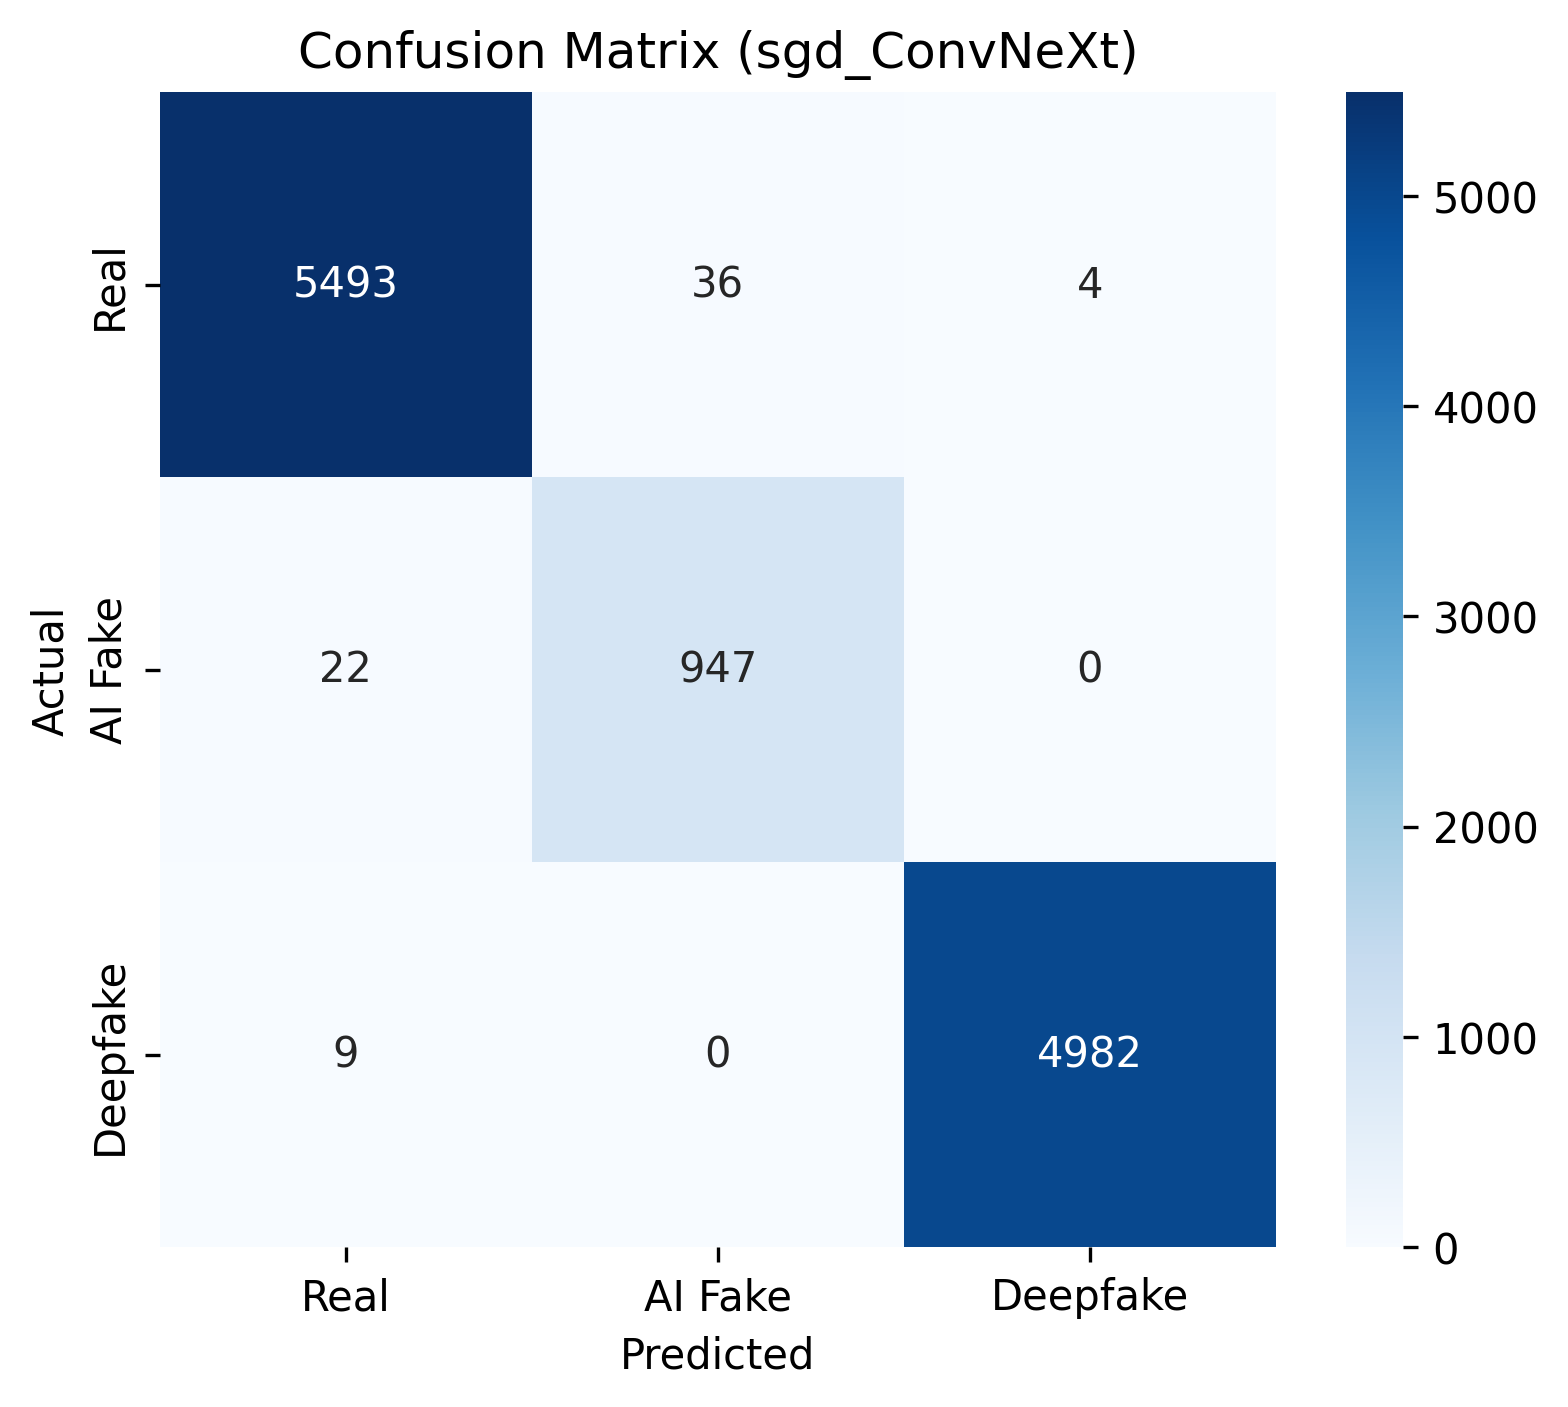
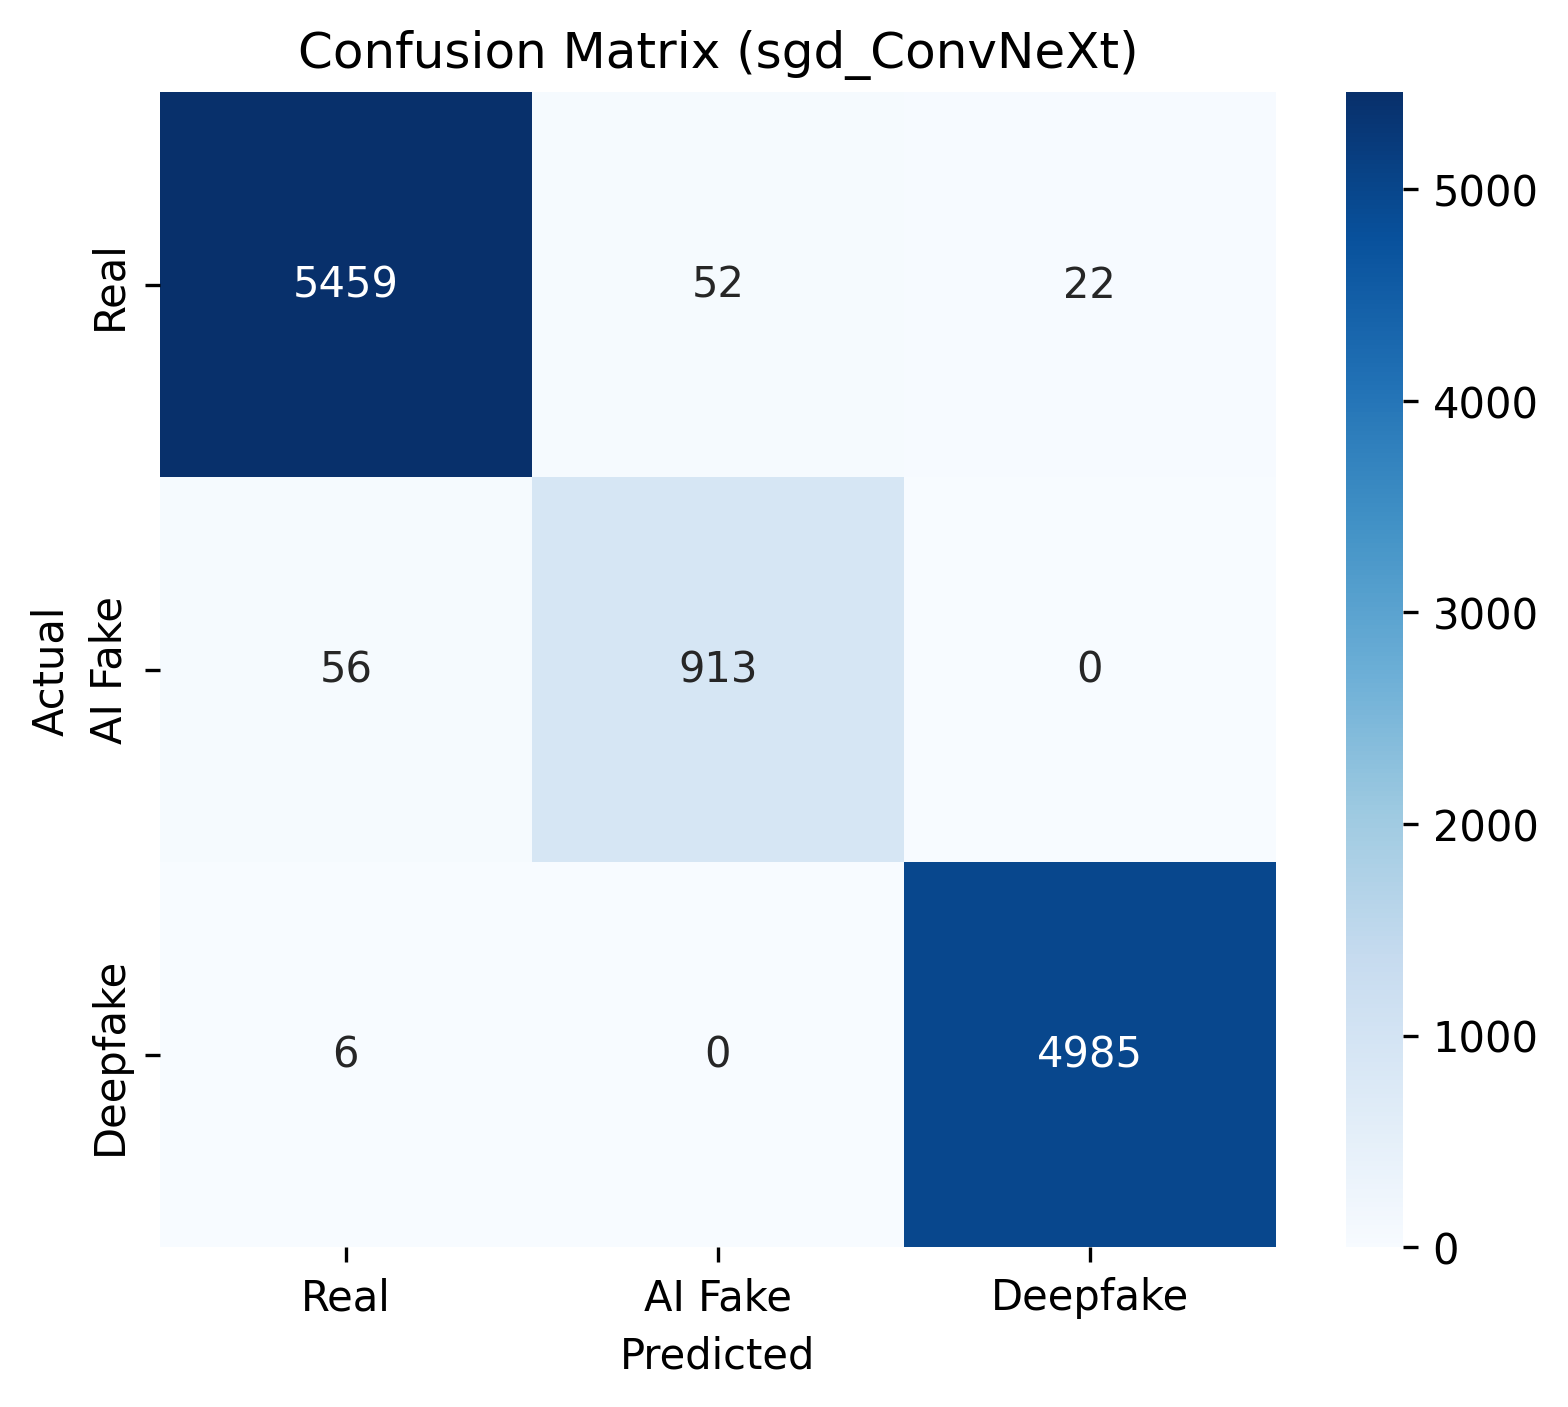
feat: implement anti-shortcut perturbations and robust L2 regularization

diff --git a/utils.py b/utils.py
@@ -1,3 +1,4 @@
+import io
 import torch
 import torch.nn as nn
 from torchvision import models, transforms
@@ -6,14 +7,46 @@ import numpy as np
 from torch.utils.data import Dataset, DataLoader
 import config
 
-def get_transform():
-    """Returns the standard image transformation pipeline."""
-    return transforms.Compose([
-        transforms.Resize((224, 224)),
+class RandomJPEGCompression(object):
+    """
+    Simulates varied JPEG compression artifacts (quality 50-95) to destroy
+    camera/video sensor quantization shortcuts and enforce semantic robustness.
+    """
+    def __init__(self, quality_range=(50, 95), p=0.5):
+        self.quality_range = quality_range
+        self.p = p
+
+    def __call__(self, img):
+        if np.random.rand() > self.p:
+            return img
+        quality = int(np.random.randint(self.quality_range[0], self.quality_range[1]))
+        buffer = io.BytesIO()
+        img.save(buffer, format="JPEG", quality=quality)
+        buffer.seek(0)
+        return Image.open(buffer).convert("RGB")
+
+def get_transform(augment=False):
+    """
+    Returns image transformation pipeline.
+    
+    Args:
+        augment: If True, adds JPEG compression perturbation, horizontal flips,
+                 subtle color jitter, and Gaussian blur to destroy domain/compression bias.
+    """
+    transform_list = [transforms.Resize((224, 224))]
+    if augment:
+        transform_list.extend([
+            RandomJPEGCompression(quality_range=(50, 95), p=0.5),
+            transforms.RandomHorizontalFlip(p=0.5),
+            transforms.ColorJitter(brightness=0.15, contrast=0.15, saturation=0.1),
+            transforms.GaussianBlur(kernel_size=(3, 3), sigma=(0.1, 1.5)),
+        ])
+    transform_list.extend([
         transforms.ToTensor(),
         transforms.Normalize(mean=[0.485, 0.456, 0.406], 
                              std=[0.229, 0.224, 0.225])
     ])
+    return transforms.Compose(transform_list)
 
 def get_model(device=config.DEVICE, keep_layernorm=False):
     """
@@ -35,8 +68,10 @@ def get_model(device=config.DEVICE, keep_layernorm=False):
     cnn.eval()
     return cnn
 
-def extract_embedding(model, image_path, transform, device=config.DEVICE):
+def extract_embedding(model, image_path, transform=None, device=config.DEVICE):
     """Extracts a 1D embedding vector (768,) from a single image path."""
+    if transform is None:
+        transform = get_transform(augment=False)
     try:
         img = Image.open(image_path).convert("RGB")
         x = transform(img).unsqueeze(0).to(device)
@@ -54,7 +89,7 @@ class ImageListDataset(Dataset):
     def __init__(self, file_paths, labels=None, transform=None):
         self.file_paths = file_paths
         self.labels = labels
-        self.transform = transform if transform is not None else get_transform()
+        self.transform = transform if transform is not None else get_transform(augment=False)
 
     def __len__(self):
         return len(self.file_paths)
@@ -66,19 +101,20 @@ class ImageListDataset(Dataset):
             if self.transform:
                 image = self.transform(image)
         except Exception as e:
-            # Fallback to blank image if corrupted
             image = torch.zeros(3, 224, 224)
         
         if self.labels is not None:
             return image, self.labels[idx], str(path)
         return image, str(path)
 
-def extract_batch_features(model, file_paths, labels=None, batch_size=64, num_workers=2, device=config.DEVICE):
+def extract_batch_features(model, file_paths, labels=None, batch_size=64, num_workers=2, 
+                           device=config.DEVICE, augment=False):
     """
     Extracts embeddings for a list of file paths in batches using DataLoader.
-    Significantly faster than single-image extraction.
+    Optionally applies anti-shortcut perturbation augmentations.
     """
-    dataset = ImageListDataset(file_paths, labels=labels, transform=get_transform())
+    transform = get_transform(augment=augment)
+    dataset = ImageListDataset(file_paths, labels=labels, transform=transform)
     loader = DataLoader(
         dataset, 
         batch_size=batch_size, 

diff --git a/train.py b/train.py
@@ -56,10 +56,10 @@ def load_data(dataset_path):
     print(f"Test features:  {X_test.shape}, labels: {y_test.shape}")
     return X_train, y_train, X_test, y_test
 
-def build_classifier(classifier_type="sgd"):
-    """Instantiates a classifier according to type."""
+def build_classifier(classifier_type="sgd", alpha=0.001):
+    """Instantiates a classifier according to type with L2 regularization."""
     if classifier_type == "sgd":
-        return SGDClassifier(loss='hinge', class_weight='balanced', max_iter=1000, random_state=42, tol=1e-3)
+        return SGDClassifier(loss='hinge', penalty='l2', alpha=alpha, class_weight='balanced', max_iter=2000, random_state=42, tol=1e-3)
     elif classifier_type == "rbf":
         return svm.SVC(kernel='rbf', gamma='scale', random_state=42, C=1.0)
     elif classifier_type == "linear_svm":
@@ -136,6 +136,8 @@ def main():
                         help="Path to directory containing precomputed .npy embeddings.")
     parser.add_argument("--output-dir", type=str, default=str(config.OUTPUTS_DIR),
                         help="Directory to save evaluation plots and reports.")
+    parser.add_argument("--alpha", type=float, default=0.001,
+                        help="L2 penalty parameter for SGDClassifier (default: 0.001 to prevent shortcut learning).")
     args = parser.parse_args()
 
     # Determine model checkpoint path
@@ -157,8 +159,8 @@ def main():
         sys.exit(1)
 
     if args.train:
-        print(f"\nTraining {args.classifier.upper()} classifier...")
-        model = build_classifier(args.classifier)
+        print(f"\nTraining {args.classifier.upper()} classifier (alpha={args.alpha})...")
+        model = build_classifier(args.classifier, alpha=args.alpha)
         model.fit(X_train, y_train)
         model_path.parent.mkdir(parents=True, exist_ok=True)
         joblib.dump(model, model_path)
@@ -166,7 +168,7 @@ def main():
     else:
         if not model_path.exists():
             print(f"Checkpoint not found at {model_path}. Training a new {args.classifier.upper()} model...")
-            model = build_classifier(args.classifier)
+            model = build_classifier(args.classifier, alpha=args.alpha)
             model.fit(X_train, y_train)
             model_path.parent.mkdir(parents=True, exist_ok=True)
             joblib.dump(model, model_path)

diff --git a/preprocess.py b/preprocess.py
@@ -51,6 +51,8 @@ def main():
                         help="Directory where output .npy files will be saved.")
     parser.add_argument("--keep-layernorm", action="store_true",
                         help="Preserve LayerNorm2d in ConvNeXt (recommended for new trainings).")
+    parser.add_argument("--augment", action="store_true",
+                        help="Apply anti-shortcut perturbations (JPEG compression, blur, jitter) during training extraction.")
     args = parser.parse_args()
 
     dataset_path = Path(args.dataset_dir)
@@ -81,12 +83,13 @@ def main():
     start_time = time.time()
 
     if train_paths:
-        print(f"\n3. Extracting training features (batch_size={args.batch_size})...")
+        print(f"\n3. Extracting training features (batch_size={args.batch_size}, augment={args.augment})...")
         X_train, y_train = utils.extract_batch_features(
             cnn, train_paths, train_labels, 
             batch_size=args.batch_size, 
             num_workers=args.num_workers,
-            device=config.DEVICE
+            device=config.DEVICE,
+            augment=args.augment
         )
         print("X_train shape:", X_train.shape, "y_train shape:", y_train.shape)
         np.save(output_path / 'X_train_ConvNeXt.npy', X_train)
